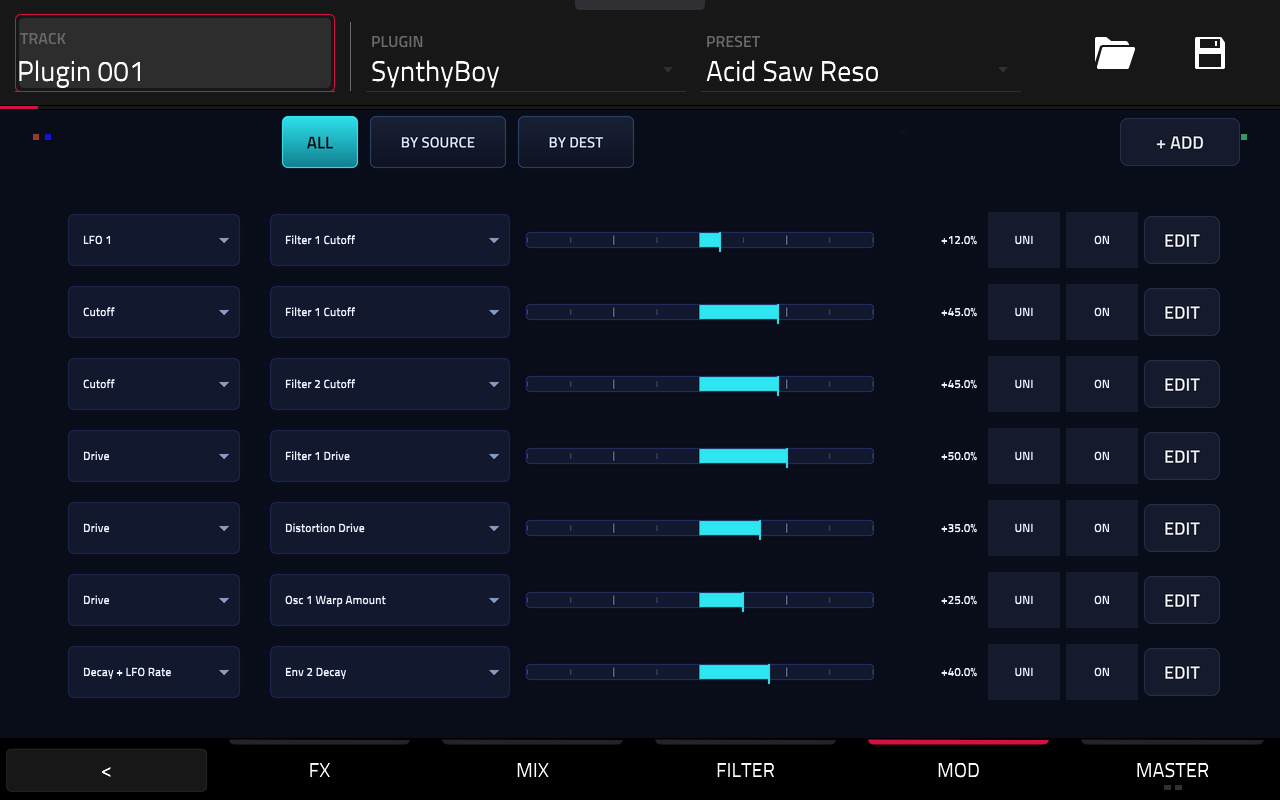
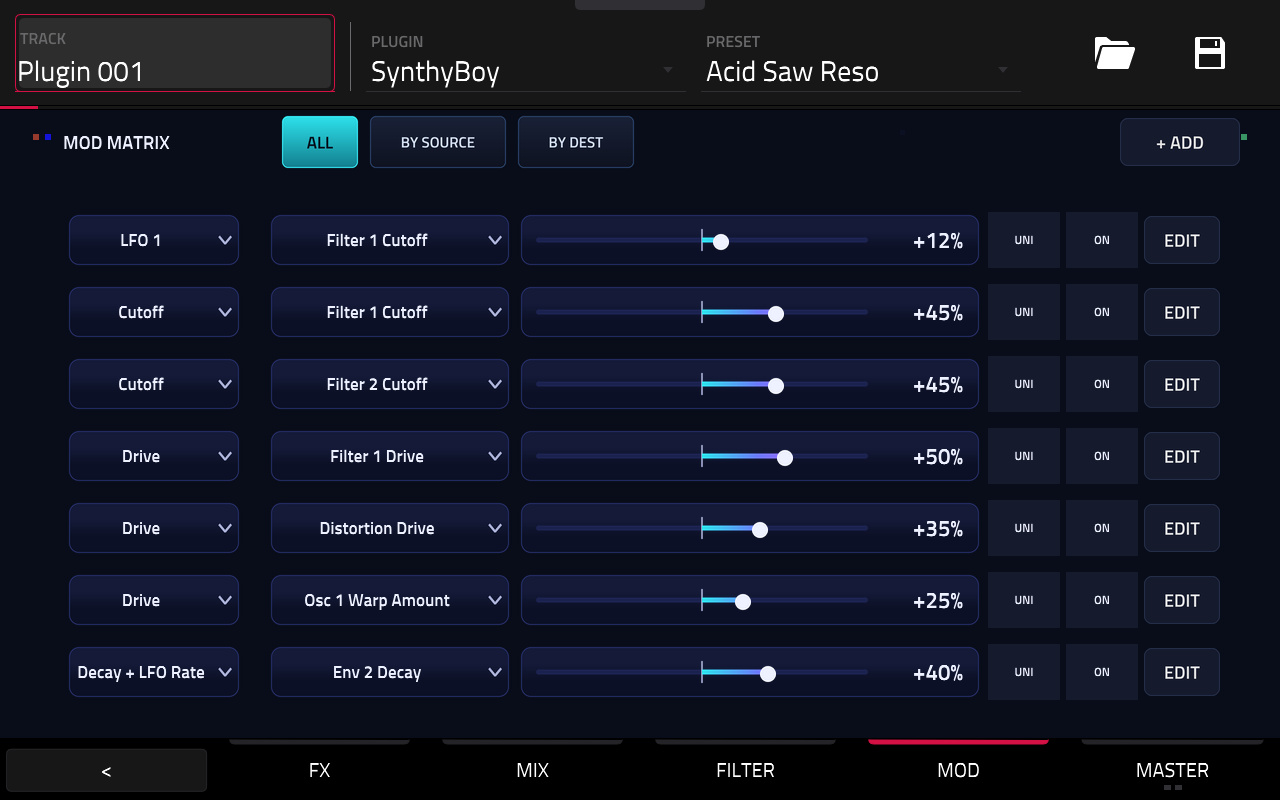
Refresh Key 61 Mod Matrix photo with shared reference typography

diff --git a/docs/ui-components/native-katalogus.html b/docs/ui-components/native-katalogus.html
@@ -17,7 +17,7 @@
 <section id="fx"><h2>FX</h2><p>MPC Key 61 hardverfelvétel · 027c5fa8</p><div class="pair"><figure><a href="../screens/fx.jpg?v=7d673bad98ed"><img src="../screens/fx.jpg?v=7d673bad98ed" alt="FX · aktuális előnézet"></a><figcaption>FX · aktuális előnézet</figcaption></figure></div></section>
 <section id="mixer"><h2>Mixer</h2><p>MPC Key 61 hardverfelvétel · 027c5fa8</p><div class="pair"><figure><a href="../screens/mixer_old.jpg?v=cd315c9184ef"><img src="../screens/mixer_old.jpg?v=cd315c9184ef" alt="Mixer · rögzített régi referencia"></a><figcaption>Mixer · rögzített régi referencia</figcaption></figure><figure><a href="../screens/mixer.jpg?v=d37cbfd181ce"><img src="../screens/mixer.jpg?v=d37cbfd181ce" alt="Mixer · aktuális előnézet"></a><figcaption>Mixer · aktuális előnézet</figcaption></figure></div></section>
 <section id="filter"><h2>Filter</h2><p>MPC Key 61 hardverfelvétel · 027c5fa8</p><div class="pair"><figure><a href="../screens/filter_old.jpg?v=0f55a2bfbe5c"><img src="../screens/filter_old.jpg?v=0f55a2bfbe5c" alt="Filter · rögzített régi referencia"></a><figcaption>Filter · rögzített régi referencia</figcaption></figure><figure><a href="../screens/filter.jpg?v=a37e0f695474"><img src="../screens/filter.jpg?v=a37e0f695474" alt="Filter · aktuális előnézet"></a><figcaption>Filter · aktuális előnézet</figcaption></figure></div></section>
-<section id="mod"><h2>Mod</h2><p>MPC Key 61 hardverfelvétel · 027c5fa8</p><div class="pair"><figure><a href="../screens/mod_old.jpg?v=0e79df023a0a"><img src="../screens/mod_old.jpg?v=0e79df023a0a" alt="Mod · rögzített régi referencia"></a><figcaption>Mod · rögzített régi referencia</figcaption></figure><figure><a href="../screens/mod.jpg?v=15983d4b2195"><img src="../screens/mod.jpg?v=15983d4b2195" alt="Mod · aktuális előnézet"></a><figcaption>Mod · aktuális előnézet</figcaption></figure></div></section>
+<section id="mod"><h2>Mod</h2><p>MPC Key 61 hardverfelvétel · Acid Saw Reso · TUI a91db1cc1e53</p><div class="pair"><figure><a href="../screens/mod_old.jpg?v=0e79df023a0a"><img src="../screens/mod_old.jpg?v=0e79df023a0a" alt="Mod · rögzített régi referencia"></a><figcaption>Mod · rögzített régi referencia</figcaption></figure><figure><a href="../screens/mod.jpg?v=984f8ceca8aa"><img src="../screens/mod.jpg?v=984f8ceca8aa" alt="Mod · aktuális előnézet"></a><figcaption>Mod · aktuális előnézet</figcaption></figure></div></section>
 <section id="master"><h2>Master</h2><p>MPC Key 61 hardverfelvétel · 027c5fa8</p><div class="pair"><figure><a href="../screens/master_old.jpg?v=dac4721df195"><img src="../screens/master_old.jpg?v=dac4721df195" alt="Master · rögzített régi referencia"></a><figcaption>Master · rögzített régi referencia</figcaption></figure><figure><a href="../screens/master.jpg?v=ddca612ebf11"><img src="../screens/master.jpg?v=ddca612ebf11" alt="Master · aktuális előnézet"></a><figcaption>Master · aktuális előnézet</figcaption></figure></div></section>
 <section id="voice"><h2>Voice</h2><p>MPC Key 61 hardverfelvétel · 027c5fa8</p><div class="pair"><figure><a href="../screens/voice.jpg?v=65edc7e76871"><img src="../screens/voice.jpg?v=65edc7e76871" alt="Voice · aktuális előnézet"></a><figcaption>Voice · aktuális előnézet</figcaption></figure></div></section>
 </html>
